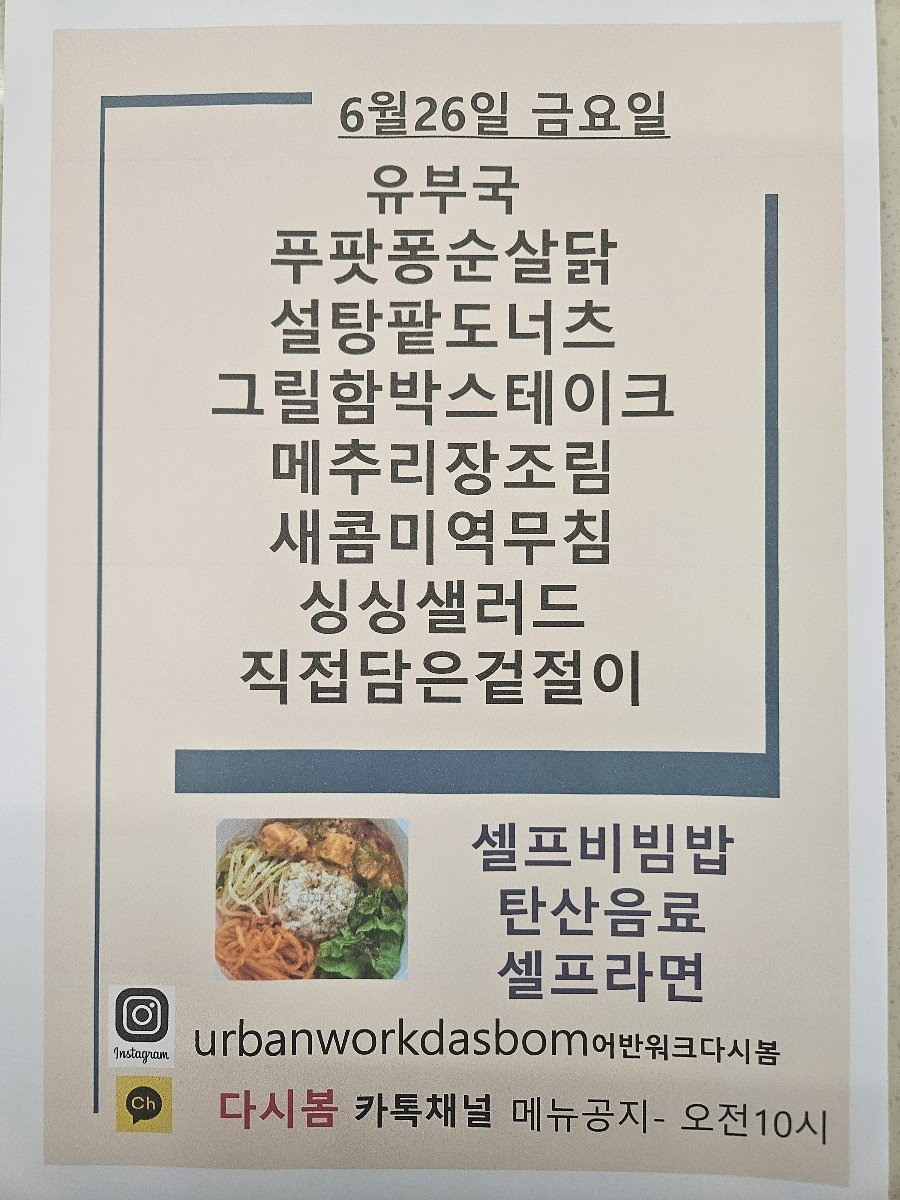
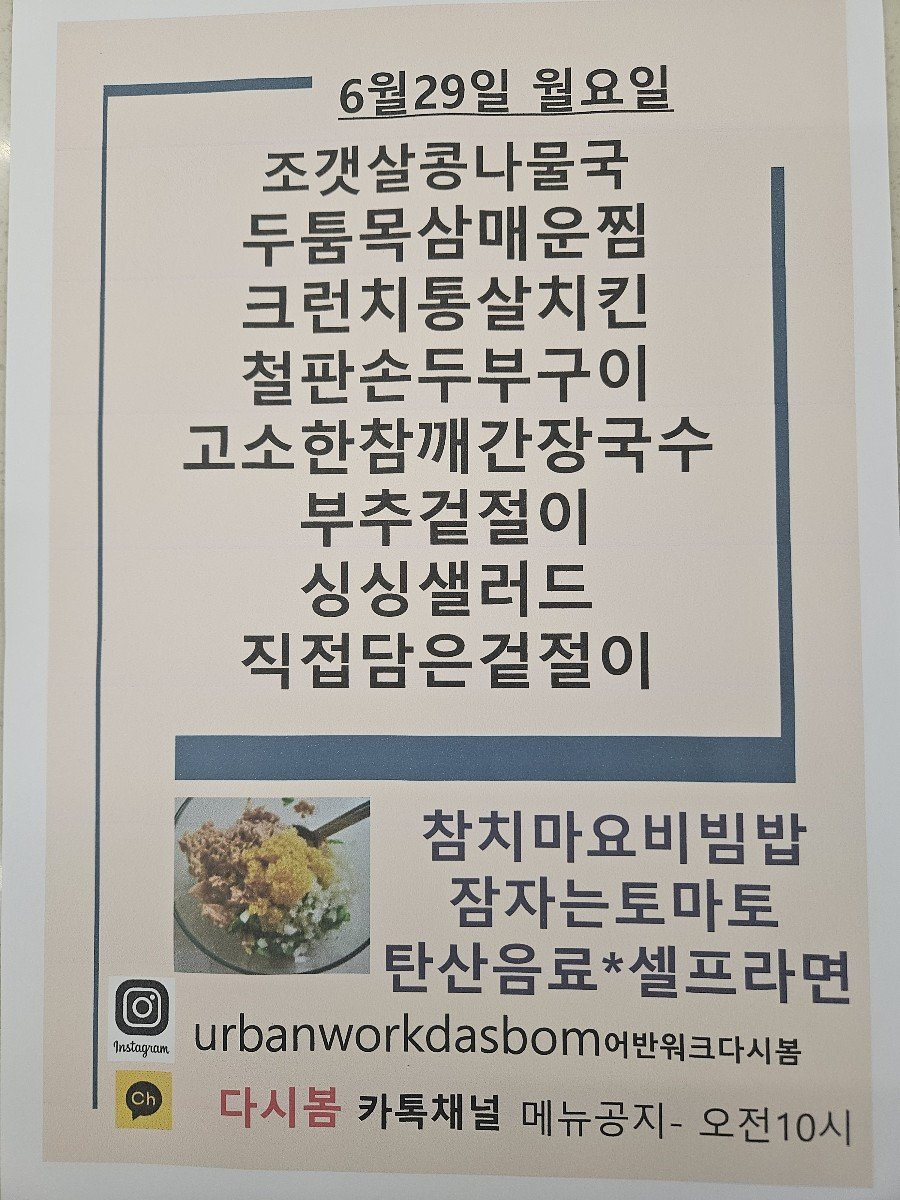
Update menu board assets

diff --git a/menu-today/index.html b/menu-today/index.html
@@ -209,7 +209,7 @@
 
     <section class="meta-bar">
       <div class="meta-card"><div class="meta-label">기준 날짜</div><div class="meta-value">2026년 6월 29일 월요일</div></div>
-      <div class="meta-card"><div class="meta-label">최종 가져온 시간</div><div class="meta-value">2026-06-29 09:33:05</div></div>
+      <div class="meta-card"><div class="meta-label">최종 가져온 시간</div><div class="meta-value">2026-06-29 09:47:52</div></div>
       <div class="meta-card"><div class="meta-label">확인 완료</div><div class="meta-value">9개 식당</div></div>
       <div class="meta-card"><div class="meta-label">준비중</div><div class="meta-value">3개 채널</div></div>
     </section>
@@ -235,7 +235,7 @@
             <div class="sub">가산 어반워크</div>
           </div>
         </div>
-        <div class="menu-inline-image"><img src="./images/dasibom.png" alt="다시 봄 식단 이미지"></div><ul><li>으부국</li><li>릴함박스테이 j</li><li>메주리장조림</li><li>새콤미역무짐 E</li><li>싱싱샐러드</li><li>접담은겉절이</li></ul>
+        <div class="menu-inline-image"><img src="./images/dasibom.png" alt="다시 봄 식단 이미지"></div><ul><li>크런치통살치킨</li><li>철판손두부구이</li><li>고소한참깨간장국수</li><li>부주겉절이</li><li>싱싱샐러드</li><li>직접담은겉절이</li><li>참치마요비빔밥</li><li>두룸목삼매운찜</li><li>번즈커전</li><li>잠자는토마토</li></ul>
       </article>
 
       <article class="restaurant-card">

diff --git a/guro-menu/index.html b/guro-menu/index.html
@@ -32,7 +32,7 @@
   </header>
   <section class="meta">
     <div><small>기준 날짜</small><strong>2026년 6월 29일 월요일</strong></div>
-    <div><small>최종 갱신</small><strong>2026-06-29 09:33:17</strong></div>
+    <div><small>최종 갱신</small><strong>2026-06-29 09:48:03</strong></div>
     <div><small>등록 식당</small><strong>5개</strong></div>
   </section>
   <div class="notice">공개 카카오 채널의 메뉴 이미지를 자동 수집하고 OCR로 정리합니다. 텍스트에 오타가 있을 수 있으니 식단 이미지를 함께 확인해 주세요.</div>
